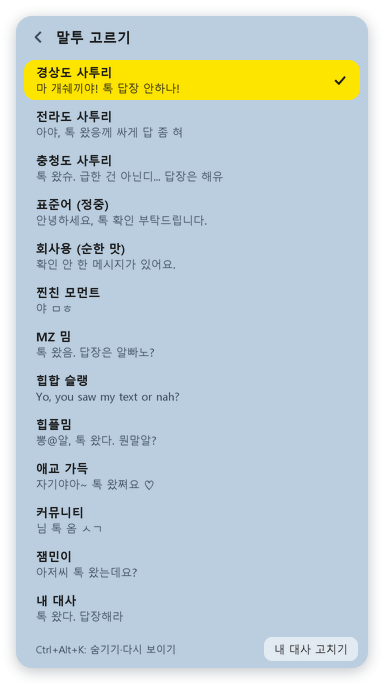
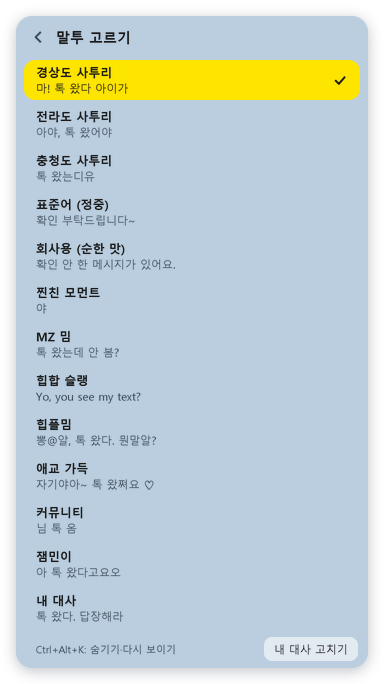
말투 대사를 더 자연스럽게 새로 씀

diff --git a/kakao_nag.py b/kakao_nag.py
@@ -36,89 +36,90 @@ HOTKEY_TEXT = "Ctrl+Alt+K"
 LEVEL_MIN = (0, 10, 60)   # 대사·말풍선 단계가 오르는 시간(분)
 DEFAULT_TONE = "gyeongsang"
 # 말투: (키, 이름, [단계별 대사 목록]). 여기에 한 줄 더하면 설정 화면에도 나옴.
+# 대사는 짧게, 설명하지 말고 그 사람이 실제로 칠 법한 말로. 말투끼리 같은 농담 틀을 돌려 쓰지 않음.
 TONES = [
     ("gyeongsang", "경상도 사투리", [
-        ["마 개쉐끼야! 톡 답장 안하나!", "니 머하노? 톡 왔다 아이가", "어데 갔노? 답장 쫌 해라", "니 얘기 돌던데? 궁금하면 답장해라"],
-        ["이 문디 자슥아, 톡 좀 보라카이", "니 폰 어데 뒀노? 단디 좀 봐라", "몇 번을 말하노! 답장하라 안 카나!", "[속보] 니 아직도 답장 안 했다 카더라"],
-        ["니 내 차단했나? 와 이라노", "고마 해라, 니 폰 확 뽀사뿐다!!", "마 개쉐끼야!!! 니 내한테 디진다!!!", "동네방네 소문낸다? 쟈 톡 씹는다꼬!!"]]),
+        ["마! 톡 왔다 아이가", "니 뭐하노?", "답장 안 하나?", "폰 쫌 봐라 마", "어데 짱박혔노?", "읽기라도 해라 쫌"],
+        ["니 지금 내 무시하나?", "아 답답해 죽겠네 진짜", "폰 고장났나? 고치주까?", "와 이래 사람 애를 태우노", "니 일부러 그라제? 다 안다", "니 아직도 똥 싸나?"],
+        ["마 개쉐끼야!!! 답장 안 하나!!!", "니 오늘 내 손에 디진다", "느그 집 앞이다. 나온나", "니 진짜 맞고 잡나?!", "고마 치아라 마! 연 끊자!", "폰 확 뽀사뿐다!!!"]]),
     ("jeolla", "전라도 사투리", [
-        ["아야, 톡 왔응께 싸게 답 좀 혀", "뭣허냐? 톡 왔당께", "오메, 톡을 씹어부렀냐잉", "아야, 니 소문 돌던디? 궁금허믄 답장혀"],
-        ["시방까지 안 읽고 뭣헌다냐", "아따 쪼까 답장 좀 해부러야", "거시기, 답장은 언제 헐 것이여?", "[속보] 아직도 답장 안 했다네잉"],
-        ["오메 징한 거, 나 차단해부렀냐?", "이라믄 못 쓴당께, 참말로!!", "아야!!! 염병허네, 싸게싸게 답장 안 혀?!!", "온 동네에 다 말해분다잉? 톡 씹는다고!!"]]),
-    ("chungcheong", "충청도 사투리", [
-        ["톡 왔슈. 급한 건 아닌디... 답장은 해유", "뭐 하는겨, 바쁜감유?", "그려서 답장은 은제 할 겨?", "별일은 아닌디... 니 얘기 나오던디유?"],
-        ["아직도 안 읽었슈? 참 느긋허네유", "천천히 혀도 되는디, 이건 너무 천천히 아녀유?", "개갈 안 나네 참말로, 답장 좀 해유", "[속보] 아직도 답장 안 했대유. 그렇대유"],
-        ["...나 차단한 겨? 아니믄 됐구유", "됐슈. 답장 허지 마유. 나는 뭐 괜찮어유", "이제 진짜 화났슈. 티는 안 내는디 화났슈", "동네 사람들헌테 말 안 했슈. 아직은유"]]),
-    ("polite", "표준어 (정중)", [  # 회사 메신저 말투
-        ["안녕하세요, 톡 확인 부탁드립니다.", "바쁘시겠지만 회신 부탁드려요.", "리마인드 차 다시 연락드립니다.", "[긴급] 매우 중요한 공지입니다. (답장하세요)"],
-        ["혹시 제 메시지가 누락됐을까요?", "확인이 늦어지시는 것 같아 재차 여쭙습니다.", "회신 기다리다 다시 연락드려요 ^^;", "귀하의 미회신 건이 대표님께 보고되었습니다."],
-        ["여러 차례 말씀드렸는데 회신이 없으시네요.", "오늘 내로 회신 부탁드립니다. 꼭이요.", "이렇게까지 말씀드리고 싶지 않았습니다만, 답장 좀 하십시오.", "본 안읽씹 건은 전사 공지될 예정입니다."]]),
+        ["아야, 톡 왔어야", "뭣 허냐 시방?", "답장 좀 혀봐야", "오메, 아직도 안 봤냐?", "거시기... 톡 왔당께"],
+        ["워메 사람 애간장 녹이네잉", "니 시방 나 무시허냐?", "폰은 폼으로 들고 댕기냐?", "느자구없이 왜 답이 없어야", "징허다 징해, 참말로"],
+        ["아야!!! 니 죽을래?!", "염병허고 자빠졌네 참말로!!", "오메 환장허겄네!!!", "나가 성질나믄 무섭다잉?", "느그 집 찾아가분다잉!!"]]),
+    ("chungcheong", "충청도 사투리", [  # 대놓고 화내지 않고 돌려 말하는 게 웃음 포인트
+        ["톡 왔는디유", "바쁘믄 할 수 없구유", "급한 건 아닌디유... 쪼금 급해유", "답장은 뭐... 나중에 혀도 되쥬", "읽긴 혀야 되지 않겄어유?"],
+        ["아직도유? 허허", "괜찮어유. 기다리는 거 익숙해유", "밥은 먹고 댕기는 거쥬?", "그류... 많이 바쁜가 보네유", "개갈 안 나네 참말로"],
+        ["됐슈. 나는 뭐 괜찮어유", "...아녀유. 화 안 났어유", "쟤가 원래 저려. 냅둬유", "이제 안 기다려유. (기다리는 중)", "죽었다 생각할게유. 맘 편히유"]]),
+    ("polite", "표준어 (정중)", [  # 회사 메신저 말투. 공손한데 점점 뼈가 있음
+        ["확인 부탁드립니다~", "편하실 때 회신 주세요 :)", "혹시 메시지 보셨을까요?", "다시 한번 공유드립니다."],
+        ["앞선 메시지 재공유드립니다.", "회신이 없으셔서 한 번 더 연락드려요 ^^", "확인만이라도 부탁드립니다.", "바쁘신 거 압니다. 저도 바쁩니다."],
+        ["몇 차례 말씀드렸는데요.", "참고로 팀장님 참조 걸었습니다.", "회신 기한은 오늘까지입니다. 진짜로요.", "본 대화는 캡처되어 보관 중입니다."]]),
     ("office", "회사용 (순한 맛)", [  # 욕 없음. 말풍선도 안 빨개지고 위젯도 안 흔들림
         ["확인 안 한 메시지가 있어요.", "시간 될 때 답장해 주세요.", "새 메시지가 도착했어요."],
         ["메시지가 조금 밀려 있어요.", "잠깐 짬 날 때 확인해 보세요.", "답장을 기다리는 분이 있어요."],
         ["오래 기다리는 메시지가 있어요.", "오늘 안에 확인하면 좋겠어요.", "이 메시지, 잊으신 건 아니죠?"]]),
-    ("bestie", "찐친 모먼트", [
-        ["야 ㅁㅎ", "읽어라 좀 ㅋㅋㅋㅋ", "야야야야 톡 왔다고", "야 너 얘기 나오던데 ㅋㅋ 궁금하면 답장"],
-        ["또 잠수냐 ㅡㅡ", "이 새끼 또 씹네 ㅋㅋㅋ", "폰 팔았냐? ㅋㅋ 답장 좀", "단톡에 너 안읽씹 캡처 올린다 ㅋㅋ"],
-        ["너 죽었냐? 부고 돌린다 ㅇㅇ", "니 결혼식 안 간다 진짜", "야 이 미친놈아!!! 살아는 있냐!!!", "니 흑역사 사진 어디 뒀더라 ㅋㅋ"]]),
-    ("mz", "MZ 밈", [  # 2026년 8~10월 밈 정리 기준. 유행이 빨리 바뀌니 가끔 갈아줄 것
-        ["톡 왔음. 답장은 알빠노?", "안읽씹 좀 밤티임 ㄹㅇ", "답장 좀요 (무례하지 않게 말해주세요)", "3초 안에 답장 못 하면 바보임 ㅋ"],
-        ["이건 억까 아니고 팩트임 ㅇㅈ?", "답장 안 하는 책없쾌 그만 즐기셈", "아니 왜 안 읽음?? 킹받네", "[속보] 아직도 답장 안 함 ㄷㄷ"],
-        ["연락 없네 잘 살아", "답장 없으니까 L 가져가셈", "이 안읽씹은 영원할 건가 보다", "안읽씹하는 사람 특징.txt: 너"]]),
+    ("bestie", "찐친 모먼트", [  # 친구끼리는 짧게 친다
+        ["야", "야야야", "읽어라", "야 톡 봐봐", "ㅇㄷ?", "자냐?"],
+        ["야 뭐함??", "또 잠수냐 ㅡㅡ", "너 폰 없냐?", "아 서운하네 진짜", "이 새끼 또 씹네 ㅋㅋ", "답장 좀 해라 ㅋㅋㅋ"],
+        ["야 이 미친놈아", "살아는 있냐??", "ㅅㅂ 답장 좀 하라고", "너랑 절교야 진짜", "니 집 간다 지금", "야!!!!!!!!!!!!"]]),
+    ("mz", "MZ 밈", [  # 밈을 쌓지 않고 또래가 실제로 치는 말투로. 유행어는 오래가는 것만
+        ["톡 왔는데 안 봄?", "아니 답장 좀 ㅋㅋ", "읽는 것까진 해주라", "확인 ㄱ", "답장 기다리는 중 ㅎ"],
+        ["아니 진짜 왜 안 읽음", "개서운함 ㄹㅇ", "나만 진심이었냐고", "킹받네 진짜", "이거 읽씹 각이냐"],
+        ["걍 차단하셈 ㅋ", "ㅇㅋ 나도 안 읽음 ㅅㄱ", "와 이건 선 넘었다", "됐다 됐어 ㅋㅋㅋ", "현타 오네 ㄹㅇ"]]),
     ("hiphop", "힙합 슬랭", [
-        ["Yo, you saw my text or nah?", "Bruh. Hit me back.", "Ayo why you got me on read?", "Yo I got some tea about you. Text back."],
-        ["Bruh you ghostin' me fr?", "Deadass, pick up your phone.", "Ain't nobody THAT busy, stop playin'.", "Bet you won't text back."],
-        ["Aight bet. Don't text me when you need somethin'.", "You foul for this, on God.", "Say less, I'm pullin' up to the crib. No cap.", "Everybody already know you duckin' me. Smh."]]),
+        ["Yo, you see my text?", "Bruh. Text back.", "Ayo, why you ignorin' me?", "You up?"],
+        ["You ghostin' me fr?", "Deadass, check your phone.", "Ain't nobody that busy.", "Aight. I see how it is."],
+        ["Bet. Don't hit me up later.", "You foul for this, on God.", "I'm pullin' up. No cap.", "Lost my number or what?!"]]),
     ("hipple", "힙플밈", [  # 유튜브 '힙플밈' 번역체: 글자 사이 @, ;;;, n트, 경상도식 어투, 후드에서 살아남기
-        ["뽕@알, 톡 왔다. 뭔말알?", "마, 답장 안 하는 건 쌈@뽕하지 않다;;;", "(톡 입갤) ?... 답장 안 하나", "뽕@알, 니 얘기 돌던데? 뭔말알?"],
-        ["답장해라. 2트. 3트.", "바빴다고? 공@갈치지마;;;", "후드에서 살아남기 제1장: 톡은 바로 읽을 것.", "[속보] 뽕@알 아직도 답장 안 함;;;"],
-        ["후드에서 살아남기 제2장: 읽씹해도 답장은 할 것.", "(뽕@알 퇴갤) ?... 잠수 타나;;;", "시@밤쾅!!! 뽕@알 실종 신고 들어간다;;;", "후드에서 살아남기 제3장: 안읽씹하면 소문 난다."]]),
+        ["뽕@알, 톡 왔다. 뭔말알?", "마, 답장 안 하는 건 쌈@뽕하지 않다;;;", "(톡 입갤) ?... 답장 안 하나", "뽕@알, 읽기는 하나;;;"],
+        ["답장해라. 2트. 3트.", "바빴다고? 공@갈치지마;;;", "후드에서 살아남기 제1장: 톡은 바로 읽을 것.", "뽕@알 아직도 안 읽음;;; 실@화냐"],
+        ["후드에서 살아남기 제2장: 읽씹해도 답장은 할 것.", "(뽕@알 퇴갤) ?... 잠수 타나;;;", "시@밤쾅!!! 뽕@알 실종 신고 들어간다;;;", "후드에서 살아남기 제3장: 씹으면 맞는다."]]),
     ("aegyo", "애교 가득", [  # 단계가 오를수록 웃으면서 무서워짐
-        ["자기야아~ 톡 왔쪄요 ♡", "답장 언제 해쥬꼬야아? 힝", "뿌우... 나 톡 보냈는뎅 왜 안 봐쪄?", "쪼꼼만 봐주면 안 대? 웅? 웅? 웅?", "톡 왔땅! 얼른 읽어조 >_<", "자기 얘기 들었는뎅... 궁금하면 답장해 보든가앙~"],
-        ["힝... 나 삐질 거야. 진짜루 삐질 거야", "아직두 안 읽어쪄? 나 뿔나쪄 뿌웅", "볼 빵빵해지는 중... 터지기 전에 답장해조", "나 지금 손톱 깨물고 이써. 다 자기 때문이야 힝구", "뽀뽀 한 번 깎는다? 지금 답장하면 봐줌", "[속보] 우리 자기, 아직도 답장 안 해쪄 ㅠㅠ"],
-        ["자기야♡ 나 이제 안 웃어. 답장해.", "나 지금 웃고 있는데 눈은 안 웃어 ♡", "자기야아~ 폰 어디 뒀어? 내가 찾아가서 줄까? ♡", "애교 재고 소진됐어. 다음 말투는 욕이야 ♡", "씨잉... 진짜 미워! 미워미워 개미워!!", "뿌우우우... 시부럴 답장 좀 해조오오 ♡"]]),
+        ["자기야아~ 톡 왔쪄요 ♡", "답장 언제 해쥬꼬야아? 힝", "뿌우... 나 톡 보냈는뎅", "쪼꼼만 봐주면 안 대? 웅? 웅?", "톡 왔땅! 얼른 읽어조 >_<", "자기야 모해애? 나 심심행"],
+        ["힝... 나 삐질 거야. 진짜루", "아직두 안 읽어쪄? 뿌웅", "볼 빵빵해지는 중... 터지기 전에 답장해조", "나 지금 손톱 깨물고 이써 힝구", "뽀뽀 한 번 깎는다? 지금 답장하면 봐줌", "나 안 사랑하지? 그치? 그런 거지?"],
+        ["자기야♡ 나 이제 안 웃어. 답장해.", "나 지금 웃고 있는데 눈은 안 웃어 ♡", "자기야아~ 폰 어디 뒀어? 내가 찾아가서 줄까? ♡", "마지막으로 웃으면서 말할게. 답장해 ♡", "씨잉... 진짜 미워! 미워미워 개미워!!", "뿌우우우... 시부럴 답장 좀 해조오오 ♡"]]),
     ("community", "커뮤니티", [  # 인터넷 게시판 말투. 특정 집단을 비하하는 표현은 쓰지 않음
-        ["님 톡 옴 ㅅㄱ", "형님들 이거 답장 안 하는 거 실화임?", "톡 왔는데 왜 안 읽음? 3줄 요약 좀", "이거 나만 불편함? 안읽씹 ㅋㅋ", "답장 안 할 사람 개추 ㅋㅋㅋ", "님 얘기 올라옴 ㄷㄷ 궁금하면 답장 ㄱㄱ"],
-        ["10분째 안읽씹 ㄷㄷ 박제각 나옴", "글쓴이 잠수 탐 ㅋㅋㅋ 결말 아시는 분?", "아직도 안 읽은 거 레전드네", "후기 안 올라오는 거 보니 망했나 보네", "[단독] 안읽씹 1타 강사 등장 ㄷㄷ", "제목: 톡 안 읽는 사람. 이거 베스트 간다 ㅋㅋ"],
-        ["안읽씹 1시간 돌파 ㅋㅋㅋㅋ 박제 완료", "이 새끼 아직도 안 읽었냐? 댓글 터졌다 ㅋㅋㅋ", "형 지금 스레드 터졌어. 다 형 얘기임", "이쯤 되면 신상 털림 ㅋㅋ 농담임. 아마도", "응 답장 안 해~ 응 손절이야~", "ㅅㅂ 답장 좀 해라 이 화상아 ㅋㅋㅋ"]]),
+        ["님 톡 옴", "톡 옴 ㅇㅇ 확인 ㄱ", "안 읽냐?", "ㄹㅇ 안 읽네 ㅋㅋ", "읽어라 휴먼", "답장 ㄱㄱ"],
+        ["이거 실화냐", "아 ㅋㅋ 또 잠수냐고", "기다리다 늙겠네", "ㄹㅇ 개빡치네", "글쓴이 잠수 탐 ㅋㅋ", "이건 좀 아니지 않냐"],
+        ["와 이건 박제감이다 ㅋㅋㅋ", "어휴 ㅄ", "ㅅㅂ 진짜 답장 좀 해라", "응 안 읽어~ 응 손절~", "차단 박는다 ㅇㅇ", "ㅋㅋㅋㅋ 개레전드네 진짜"]]),
     ("jammin", "잼민이", [
-        ["아저씨 톡 왔는데요?", "톡 왔는데 왜 안 읽어요? 왜요? 왜요? 왜요?", "어쩔티비~ 일단 답장하셈", "님 톡 왔음 ㅋㅋㄹㅃㅃ", "저 초3인데 저도 답장은 바로 하는데요", "님 얘기 들었는데 말 안 해 줄 거임 ㅋㅋㄹㅃㅃ"],
-        ["저쩔냉장고 ㅋㅋ 답장 안 하면 바보 똥멍청이", "선생님한테 이를 거임. 진짜임", "아직도 안 읽음?? 킹받죠? 메롱", "우리 아빠 경찰인데요", "님 몇 살임? 저는 10살인데 톡 바로 읽음", "반사! 무한 반사! 안 읽는 사람 바보!"],
-        ["엄마아아아아!!! 이 사람 톡 안 읽어요!!!", "우리 형 중2임. 부른다?", "으아아앙 답장 안 해 주면 드러누울 거임!!!", "유튜브에 올린다? 구독자 12명임 조심하셈", "님 부모님 전번 뭐임? 일러야겠음", "님 로블록스 친삭함. 되돌릴 수 없음"]]),
+        ["아 톡 왔다고요오", "님 왜 안 읽음?? 진짜 왜??", "저 엄마 폰이라 빨리 답장해주세요", "님 혹시 할아버지임?", "ㅋㅋ 개느림", "톡 왔는데요? 안 봐요?"],
+        ["아 진짜 짜증나!!!", "저 학원 가야 되는데요", "님 지금 일부러 그러는 거죠?", "킹받쥬? 저도 킹받음", "우리 아빠 경찰인데요", "님 몇 살인데 이것도 못 함?"],
+        ["선생님!!! 얘 톡 안 읽어요!!!", "엄마아아아!!! 이 사람 이상해요!!!", "으아아앙 드러누울 거임!!!", "우리 형 중2임. 부른다?", "님 로블록스 친삭함", "유튜브에 올린다? 구독자 12명임"]]),
     ("custom", "내 대사", [[], [], []]),  # 내대사.txt에서 채움
 ]
 TONE_LINES = {key: levels for key, _, levels in TONES}
 MILD_TONES = {"office"}
 # 칭찬: 위젯은 안읽음이 사라진 것만 알고 답장했는지는 모름. 그래서 '읽었네, 답장도 했지?' 쪽으로 씀.
 PRAISE_LINES = {
-    "gyeongsang": ["오, 읽었나? 답장까지 했으면 인정한다", "마 니도 하면 되네", "그래 진작 그랄 것이지"],
-    "jeolla": ["오메 읽어부렀네잉! 답장도 혔제?", "아따 잘혔다잉", "긍께 진작 허제"],
+    "gyeongsang": ["오 읽었나? 답장도 했제?", "마 니도 하면 되네", "그래 진작 그랄 것이지"],
+    "jeolla": ["오메 읽어부렀네! 답장도 혔제?", "아따 잘혔다잉", "긍께 진작 허제"],
     "chungcheong": ["읽었슈? 잘혔슈. 답장도 혔쥬?", "거봐유, 허믄 되잖어유", "늦었지만... 뭐, 괜찮어유"],
-    "polite": ["확인 감사합니다. 회신도 부탁드려요.", "금일 건 확인 완료되었습니다.", "신속한 확인 감사드립니다. (신속하진 않았습니다)"],
+    "polite": ["확인 감사합니다! 회신도 부탁드려요 :)", "확인 완료되었습니다. 감사합니다.", "신속한 확인 감사드립니다. (신속하진 않았습니다)"],
     "office": ["확인 완료!", "수고하셨어요.", "메시지 하나 정리했어요."],
-    "bestie": ["오 읽었네 ㅋㅋ 답장도 했지?", "살아있었네 다행 ㅋㅋ", "그래 이게 사람이지"],
-    "mz": ["읽음 인증 완료 ㅇㅈ", "오 이건 좀 킹정", "갓생 한 칸 올라감 ㅋ"],
+    "bestie": ["오 살아있었네 ㅋㅋ", "답장도 했지?", "그래 이게 사람이지"],
+    "mz": ["오 읽었네 ㅋㅋ 답장도 했지?", "ㅇㅋ 인정", "갓생 한 칸 ㅋ"],
     "hiphop": ["Aight, respect. You hit 'em back, right?", "Look at you, actin' right.", "W. Took you long enough tho."],
     "hipple": ["뽕@알, 읽었나? 쌈@뽕하다;;;", "후드에서 살아남기 제4장: 답장하는 자가 살아남는다.", "(답장 입갤) 인정;;;"],
     "aegyo": ["우와아 읽어쪄! 답장두 해쪄? 쪼아쪼아", "역시 우리 자기 ♡ 칭찬 뽀뽀 쪽", "진작 그러지잉~ 이뻐 죽게써"],
-    "community": ["오 읽음 ㅋㅋ 답장 후기 ㄱㄱ", "이건 개추 ㅇㅈ", "갓답장 ㄷㄷ 베스트 보냄"],
-    "jammin": ["오 읽었네요? 참 잘했어요 도장 쾅", "칭찬 스티커 1개 드림. 10개 모으면 아무것도 없음 ㅋㅋㄹㅃㅃ", "ㅇㅈ 님 이제 초등학생 수준임"],
+    "community": ["오 읽음 ㅋㅋ 답장 후기 ㄱ", "개추 ㅇㅈ", "ㄹㅇ 사람 됐네"],
+    "jammin": ["오 읽었네요? 참 잘했어요 도장 쾅", "칭찬 스티커 1개 드림", "님 이제 초등학생 수준임"],
     "custom": [],
 }
 # 단톡에서 태그됐을 때. 카톡이 @ 아이콘 배지로 알려 주는 방에 씀.
 MENTION_LINES = {
-    "gyeongsang": ["단톡에서 니 부른다 아이가!", "마, 단톡에서 니 찾는다"],
+    "gyeongsang": ["마, 단톡에서 니 부른다", "단톡에서 니 찾는다 아이가"],
     "jeolla": ["단톡서 니 찾는당께", "아야, 단톡에서 너 불러부렀어"],
     "chungcheong": ["단톡에서 찾는디유. 급한 건 아닐 거유", "누가 불렀슈. 단톡이유"],
-    "polite": ["단체 채팅방에서 언급되셨습니다.", "단체방에서 회신을 기다리고 있습니다."],
+    "polite": ["단톡방에서 언급되셨습니다.", "단톡방에서 회신 기다리고 계십니다."],
     "office": ["단체방에서 나를 불렀어요.", "단체방에 확인할 메시지가 있어요."],
-    "bestie": ["야 단톡에서 너 부름 ㅋㅋ", "단톡에서 너 찾는다 빨리 와"],
-    "mz": ["단톡 소환 당함 ㅋㅋ", "단톡에 @너 떴음 ㄹㅇ"],
+    "bestie": ["야 단톡에서 너 부름", "단톡 가봐 너 찾음 ㅋㅋ"],
+    "mz": ["단톡 소환당함 ㅋㅋ", "단톡에 너 태그됨 ㄱ"],
     "hiphop": ["Yo, they @'d you in the group chat.", "Group chat callin' your name, fam."],
     "hipple": ["(단톡 소환) ?... 뽕@알 나와라;;;", "후드에서 살아남기 제5장: 태그되면 답할 것."],
     "aegyo": ["단톡에서 자기 찾아용~ 얼른 가봐아", "누가 우리 자기 불러쪄! 나 질투나 힝"],
-    "community": ["단톡에 박제됨 ㅋㅋ 가봐라", "소환 당함 ㄷㄷ 단톡 ㄱㄱ"],
-    "jammin": ["단톡에서 님 불렀는데요? 안 가요? 왜요?", "단톡에서 님 찾음 ㅋㅋㄹㅃㅃ 얼른 가셈"],
+    "community": ["단톡 소환 ㄷㄷ 가봐라", "님 태그당함 ㅋㅋ"],
+    "jammin": ["단톡에서 님 불렀는데요? 안 가요?", "님 단톡에서 찾아요 빨리요"],
     "custom": [],
 }
 SETTINGS_PATH = os.path.join(HERE, "settings.json")
